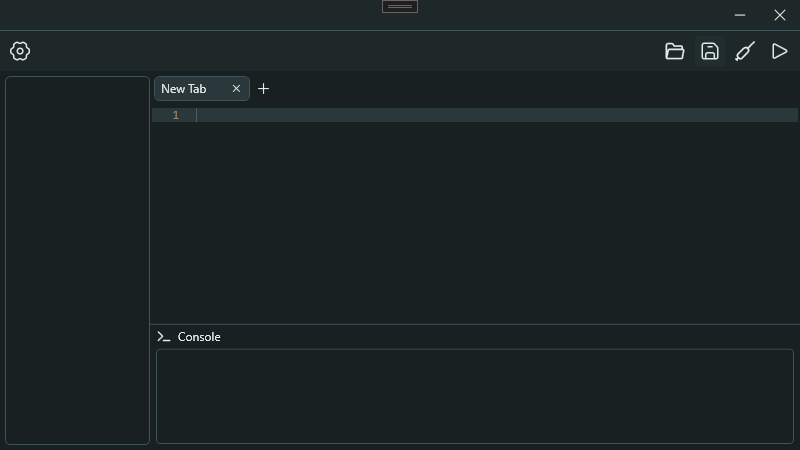
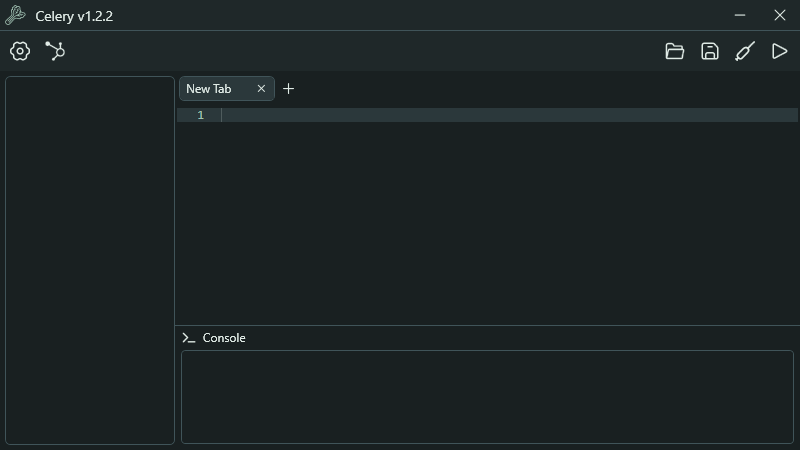
removed useless code and updated front image

diff --git a/Celery/Styles/ListBox.xaml b/Celery/Styles/ListBox.xaml
@@ -1,10 +1,5 @@
 <ResourceDictionary xmlns="http://schemas.microsoft.com/winfx/2006/xaml/presentation"
                     xmlns:x="http://schemas.microsoft.com/winfx/2006/xaml">
-    <AlternationConverter x:Key="BackgroundConverter">
-        <SolidColorBrush Color="{DynamicResource BackgroundColor}" />
-        <SolidColorBrush Color="{DynamicResource HighlightColor}" />
-    </AlternationConverter>
-
     <Style TargetType="{x:Type ListBox}">
         <Setter Property="Background" Value="{DynamicResource BackgroundBrush}"/>
         <Setter Property="BorderThickness" Value="1"/>
@@ -57,6 +52,5 @@
                 </ControlTemplate>
             </Setter.Value>
         </Setter>
-        <Setter Property="Background" Value="{Binding RelativeSource={RelativeSource Self}, Path=(ItemsControl.AlternationIndex), Converter={DynamicResource BackgroundConverter}}"/>
     </Style>
 </ResourceDictionary>
